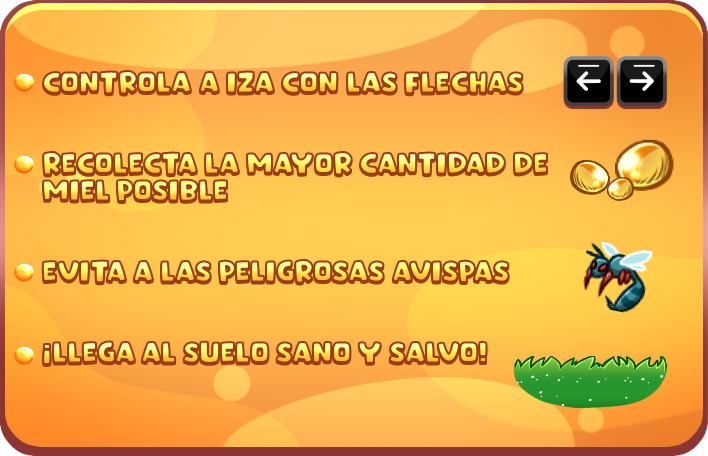
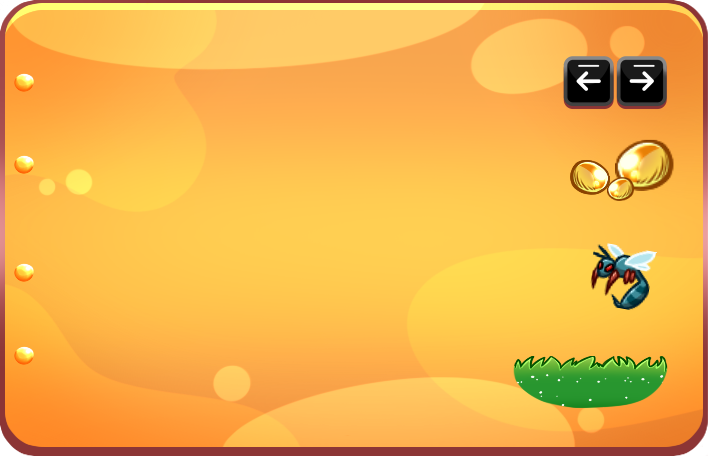
en casa 7

diff --git a/src/scenes/Creditos.js b/src/scenes/Creditos.js
@@ -1,4 +1,6 @@
 import Button from "../scenes/Botones/button.js";
+import Phaser from 'phaser'
+import WebFontFile from './WebFontFile'
 
 export class Creditos extends Phaser.Scene {
     // Se extiende de Phaser.Scene porque es una escena
@@ -6,15 +8,32 @@ export class Creditos extends Phaser.Scene {
       // Se asigna una key para despues poder llamar a la escena
       super("Creditos");
     }
+
+    preload()
+	{
+		const fonts = new WebFontFile(this.load, 'Lilita One')
+		this.load.addFile(fonts)
+	}
       create() {
         this.add.image(this.cameras.main.centerX, this.cameras.main.centerY, 'principal').setScale(0.83,1);
-        this.add.image(this.cameras.main.centerX, 260, 'creditos').setScale(0.65,0.75);
+        this.add.image(this.cameras.main.centerX, 260, 'ventanasola').setScale(0.65,0.75);
+        this.add.image(535, 475, 'help').setScale(0.65,0.75);
   
-        const boton1 = this.add.sprite(this.cameras.main.centerX, this.cameras.main.centerY + 250, 'atrasbutton').setInteractive({cursor: "pointer"})
-        boton1.on('pointerover', function(){boton1.setTexture('atrasbutton1')})
-        boton1.on('pointerout', function(){boton1.setTexture('atrasbutton')})
+        const boton1 = this.add.sprite(this.cameras.main.centerX, this.cameras.main.centerY + 250, 'botonnuevo').setInteractive({cursor: "pointer"})
+        boton1.on('pointerover', function(){boton1.setTexture('botonnuevo2')})
+        boton1.on('pointerout', function(){boton1.setTexture('botonnuevo')})
         boton1.on('pointerdown', () => {this.scene.start("MainMenu")})
   
+
+        this.add.text(280, 530, 'ATRÁS', {
+          fontFamily: 'Lilita One',
+          fontSize: '28px',
+          color: '#FFE648',
+          stroke: '#9C3B17',
+          strokeThickness: 7,
+          shadow: { offsetX: 0, offsetY: 0, fill: false, blur: 6, stroke: false },
+          resolution: 2
+        })
     }
   
   }

diff --git a/src/scenes/Tutorial.js b/src/scenes/Tutorial.js
@@ -1,21 +1,37 @@
 import Button from "../scenes/Botones/button.js";
-
+import Phaser from 'phaser'
+import WebFontFile from './WebFontFile'
 export class Tuto extends Phaser.Scene {
   constructor() {
 
     super("Tuto");
   }
 
+  preload()
+	{
+		const fonts = new WebFontFile(this.load, 'Lilita One')
+		this.load.addFile(fonts)
+	}
 
   create() {
      
     this.add.image(this.cameras.main.centerX, this.cameras.main.centerY, 'principal').setScale(0.83,1);
       this.add.image(this.cameras.main.centerX, 260, 'tutorial').setScale(0.65,0.75);
 
-    const boton1 = this.add.sprite(this.cameras.main.centerX, this.cameras.main.centerY + 250, 'atrasbutton').setInteractive({cursor: "pointer"})
-    boton1.on('pointerover', function(){boton1.setTexture('atrasbutton1')})
-    boton1.on('pointerout', function(){boton1.setTexture('atrasbutton')})
+    const boton1 = this.add.sprite(this.cameras.main.centerX, this.cameras.main.centerY + 250, 'botonnuevo').setInteractive({cursor: "pointer"})
+    boton1.on('pointerover', function(){boton1.setTexture('botonnuevo2')})
+    boton1.on('pointerout', function(){boton1.setTexture('botonnuevo')})
     boton1.on('pointerdown', () => {this.scene.start("MainMenu")})
+
+    this.add.text(280, 530, 'ATRÁS', {
+      fontFamily: 'Lilita One',
+      fontSize: '28px',
+      color: '#FFE648',
+      stroke: '#9C3B17',
+      strokeThickness: 7,
+      shadow: { offsetX: 0, offsetY: 0, fill: false, blur: 6, stroke: false },
+      resolution: 2
+    })
 
 }
 

diff --git a/src/scenes/MainMenu.js b/src/scenes/MainMenu.js
@@ -62,15 +62,36 @@ create(){
       console.log(escena); 
       this.scene.start("Creditos")})
 
-        this.add.text(200, 250, 'JUGAR', {
+      this.add.text(272, y, 'JUGAR', {
         fontFamily: 'Lilita One',
         fontSize: '30px',
-        color: '#FFE648',
+        color: '#FBF889',
         stroke: '#9C3B17',
         strokeThickness: 9,
         shadow: { offsetX: 0, offsetY: 0, fill: false, blur: 6, stroke: false },
         resolution: 2
       })
+
+      this.add.text(280, 375, 'GUÍA', {
+        fontFamily: 'Lilita One',
+        fontSize: '28px',
+        color: '#FFE648',
+        stroke: '#9C3B17',
+        strokeThickness: 7,
+        shadow: { offsetX: 0, offsetY: 0, fill: false, blur: 6, stroke: false },
+        resolution: 2
+      })
+
+      this.add.text(260, 455, 'CRÉDITOS', {
+        fontFamily: 'Lilita One',
+        fontSize: '25px',
+        color: '#FFE648',
+        stroke: '#9C3B17',
+        strokeThickness: 7,
+        shadow: { offsetX: 0, offsetY: 0, fill: false, blur: 6, stroke: false },
+        resolution: 2
+      })
+
     if(
       escena === 0 
       

diff --git a/src/scenes/preloads.js b/src/scenes/preloads.js
@@ -66,6 +66,7 @@ export class Preloads extends Phaser.Scene {
       this.load.image("botonnuevo", "assets/imagenes/botonvacio.png")
       this.load.image("botonnuevo2", "assets/imagenes/botonvacio2.png")
       this.load.image("help", "assets/imagenes/aiuda.png")
+      this.load.image("ventanasola", "assets/imagenes/fondoventana.png")
       
 
       
